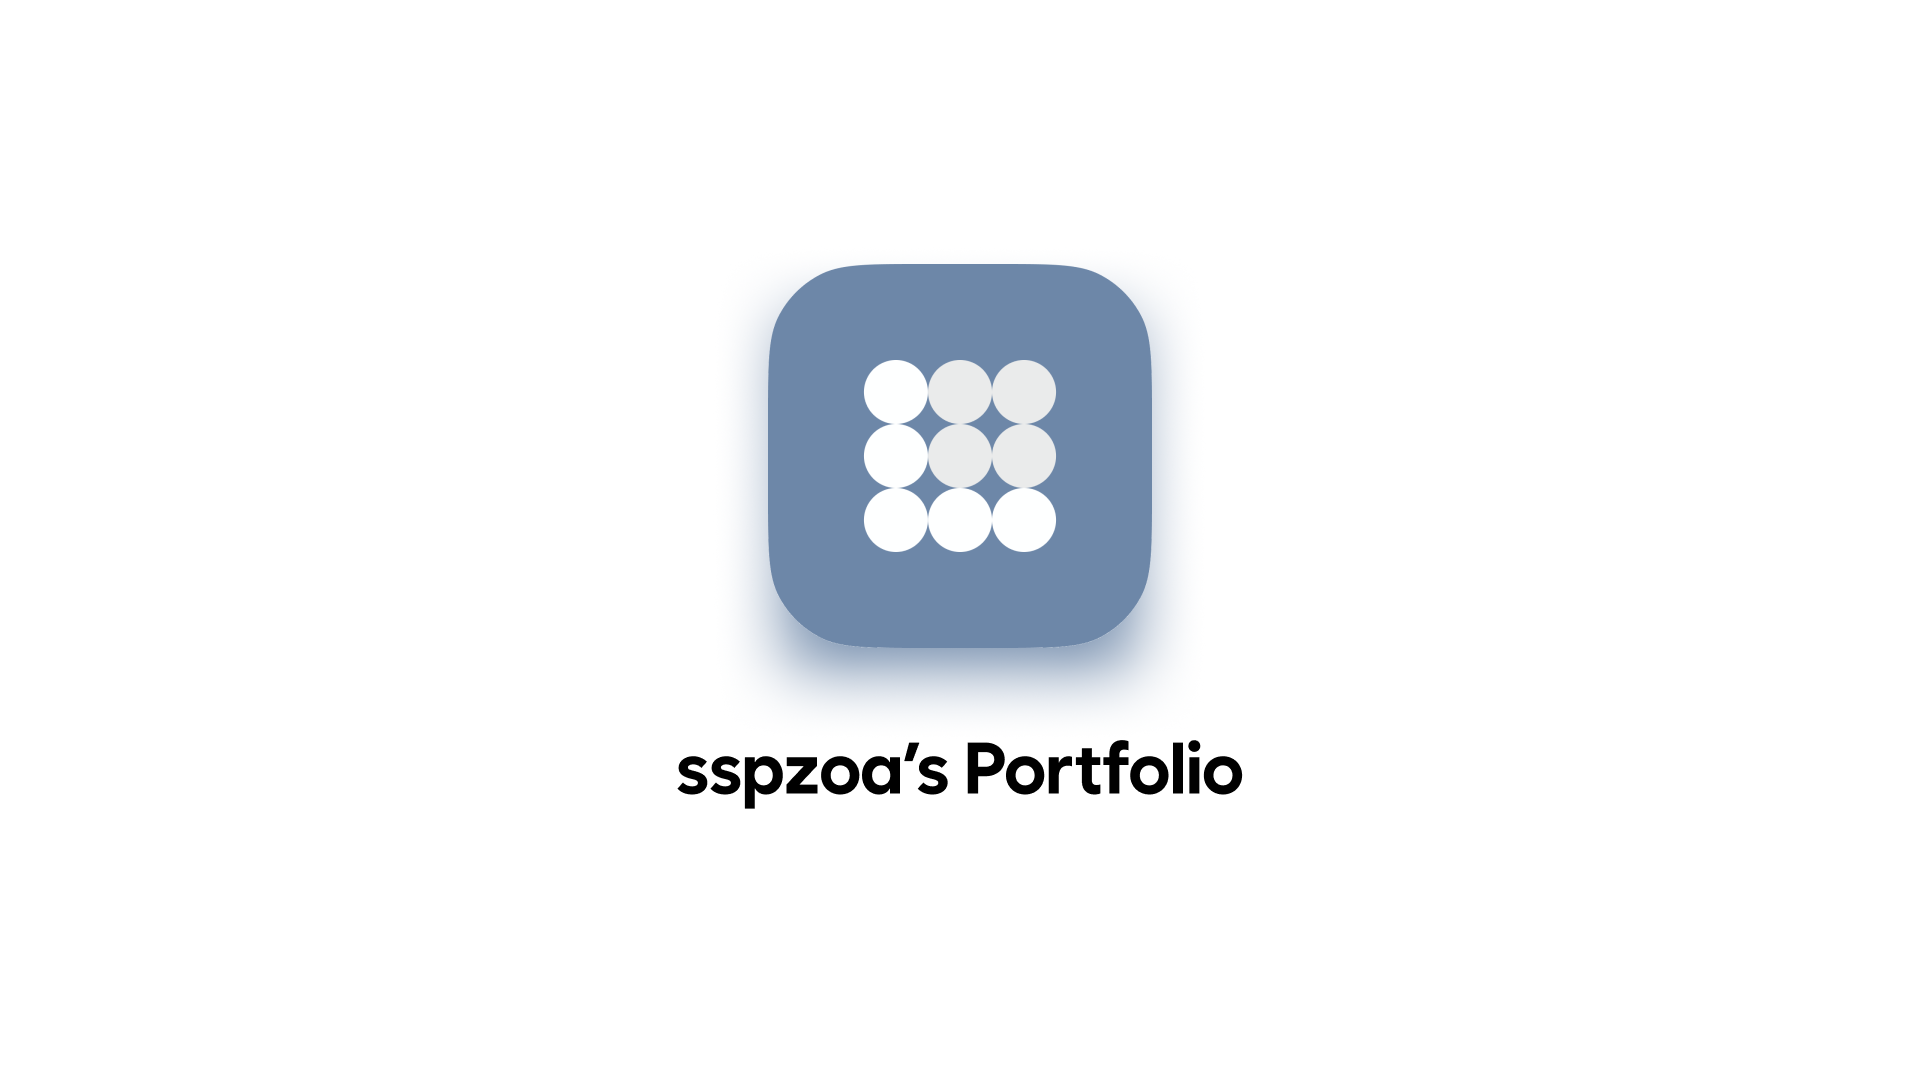
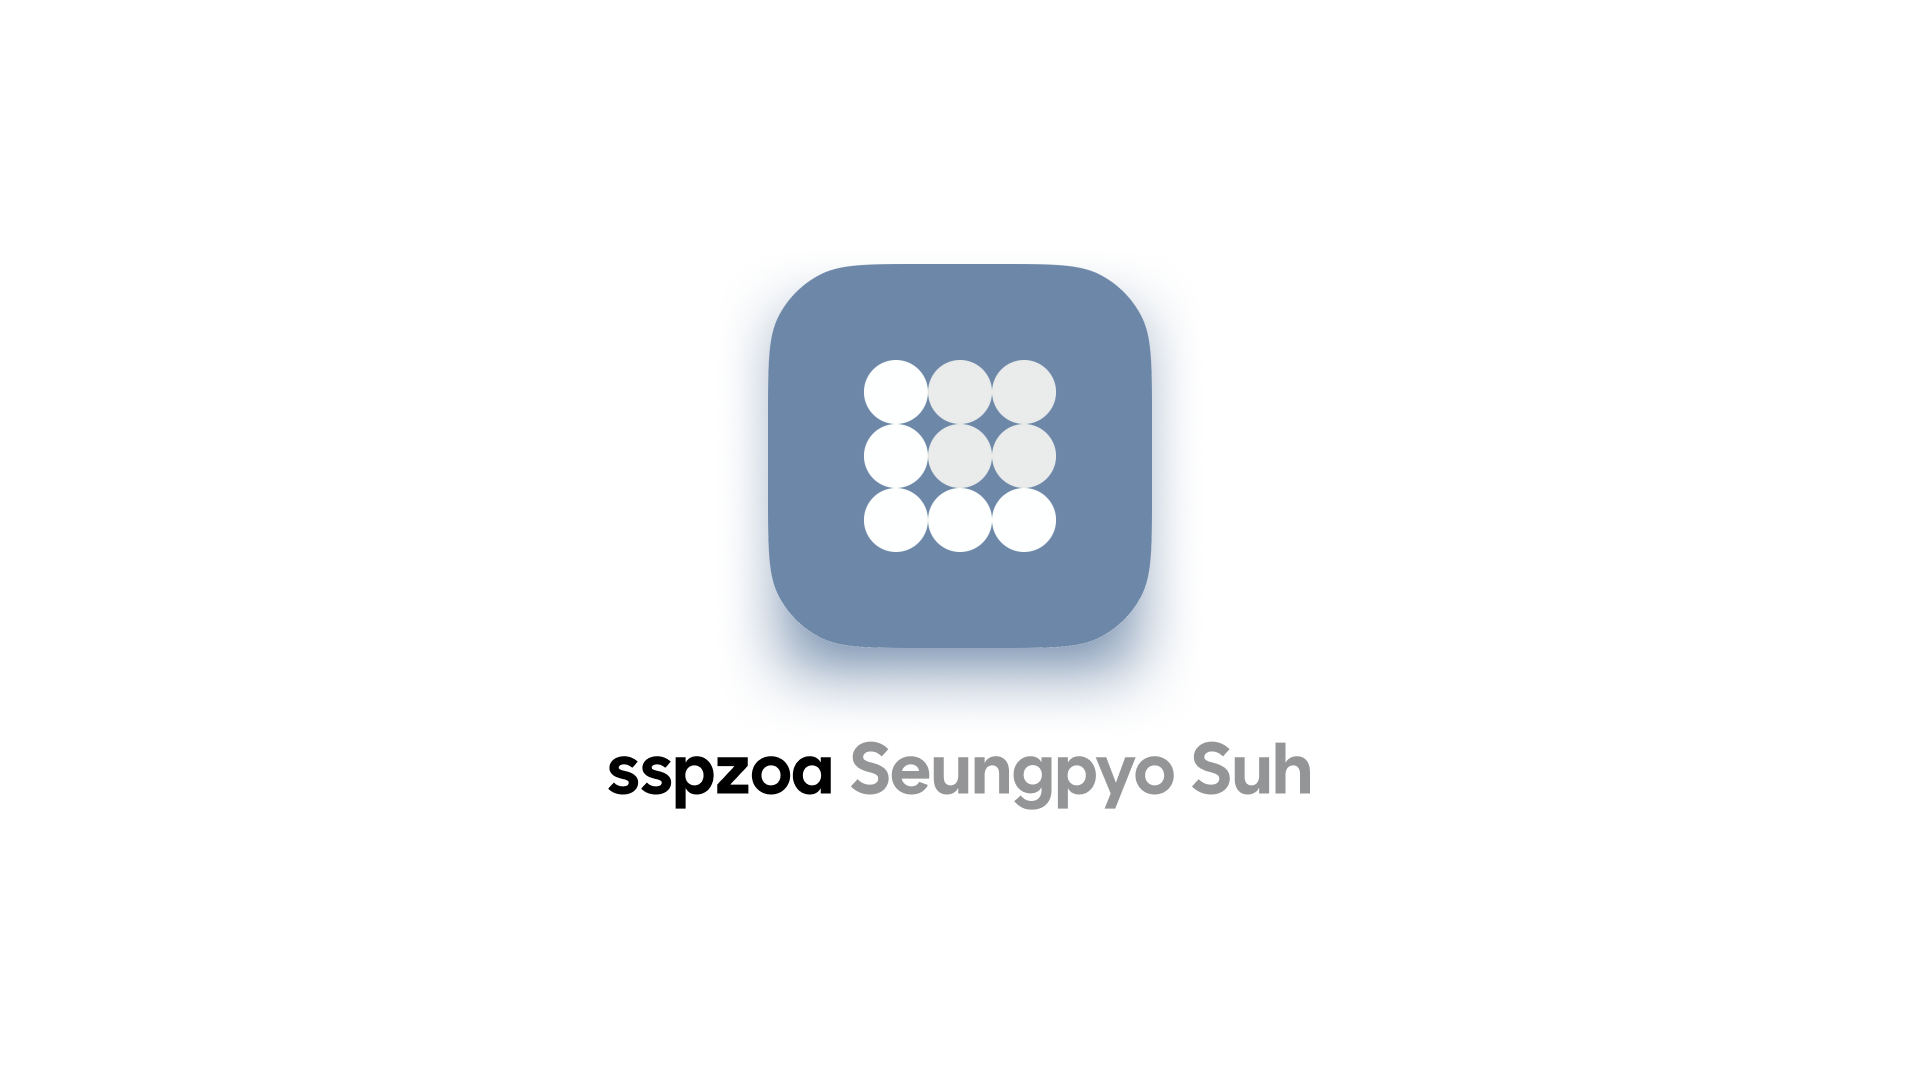
feat: adaptive page route

Changed region(s): [[0.3125, 0.6722, 0.6875, 0.7639]]

diff --git a/src/app/page.tsx b/src/app/page.tsx
@@ -1,11 +1,33 @@
-import InfoBar from '@/components/infoBar';
-import PortfolioGrid from '@/components/portfolioGrid';
+import LandingPage from '@/components/landing/landingPage';
+import InfoBar from '@/components/portfolio/infoBar';
+import PortfolioGrid from '@/components/portfolio/portfolioGrid';
+import { headers } from 'next/headers';
 
 export default function Home() {
+  const headersList = headers();
+  const hostname = headersList.get('host') || '';
+  const isPortfolio = hostname === 'portfolio.sspzoa.io';
+
+  return isPortfolio ? <Portfolio /> : <Landing />;
+}
+
+function Portfolio() {
   return (
-    <div className="w-full flex flex-col md:flex-row h-screen">
-      <InfoBar />
-      <PortfolioGrid />
-    </div>
+    <>
+      <title>sspzoa&apos; Portfolio</title>
+      <div className="w-full flex flex-col md:flex-row h-screen">
+        <InfoBar />
+        <PortfolioGrid />
+      </div>
+    </>
+  );
+}
+
+function Landing() {
+  return (
+    <>
+      <title>I&apos;m Seungpyo Suh</title>
+      <LandingPage />
+    </>
   );
 }

diff --git a/src/components/portfolio/portfolioGrid.tsx b/src/components/portfolio/portfolioGrid.tsx
@@ -1,9 +1,9 @@
-import Footer from '@/components/footer';
-import Activities from '@/components/grids/activities';
-import Awards from '@/components/grids/awards';
-import Certificates from '@/components/grids/certificates';
-import Contributions from '@/components/grids/contributions';
-import Projects from '@/components/grids/projects';
+import Footer from '@/components/portfolio/footer';
+import Activities from '@/components/portfolio/grids/activities';
+import Awards from '@/components/portfolio/grids/awards';
+import Certificates from '@/components/portfolio/grids/certificates';
+import Contributions from '@/components/portfolio/grids/contributions';
+import Projects from '@/components/portfolio/grids/projects';
 
 export default function PortfolioGrid() {
   return (

diff --git a/src/components/portfolio/grids/contributions.tsx b/src/components/portfolio/grids/contributions.tsx
@@ -6,7 +6,7 @@ export default function Contributions() {
     <div className="flex flex-col gap-spacing-300">
       <div className="flex flex-row gap-spacing-400">
         <strong className="text-label text-content-standard-tertiary">Contributions</strong>
-        <strong className="text-label text-solid-red">No commits: Jan 1 - Nov 19, 2025</strong>
+        <strong className="text-label text-solid-red">CSAT preparation period: Jan 1 - Nov 19, 2025</strong>
       </div>
       <Link
         target="_blank"

diff --git a/src/app/layout.tsx b/src/app/layout.tsx
@@ -13,7 +13,6 @@ const WantedSansVariable = localFont({
 });
 
 export const metadata: Metadata = {
-  title: "sspzoa's Portfolio",
   description: "I'm a Mobile & Frontend Engineer, passionate about creating and learning.",
   openGraph: {
     images: [{ url: 'https://sspzoa.io/images/og-image.png' }],

diff --git a/src/components/landing/landingPage.tsx b/src/components/landing/landingPage.tsx
@@ -1,0 +1,7 @@
+export default function LandingPage() {
+  return (
+    <div className="w-full h-screen flex items-center justify-center">
+      <h1 className="text-4xl font-bold">Welcome to sspzoa.io</h1>
+    </div>
+  );
+}
